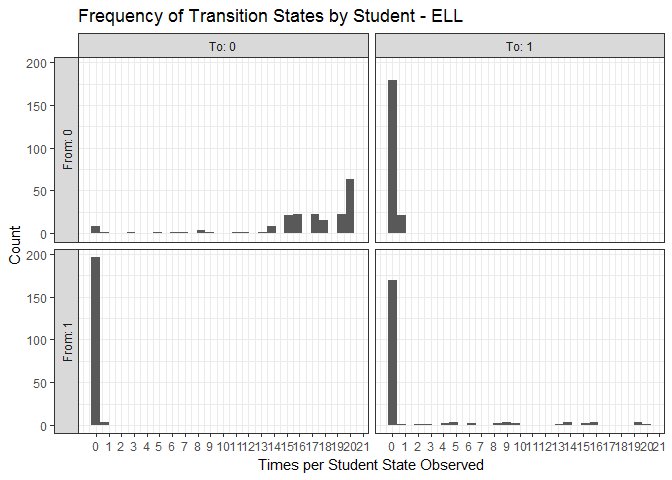
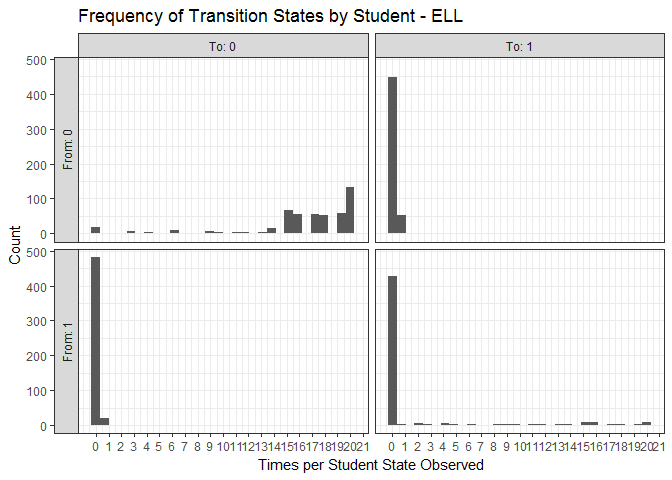
gpa function

diff --git a/README.md b/README.md
@@ -43,37 +43,42 @@ library(OpenSDP.data)
 ```
 
 ``` r
-out <- simpop(nstu = 200, nschl = 2, seed = 213)
-#> Preparing student identities for 200 students...
-#> Creating annual enrollment for 200 students...
-#> Assigning 200 students to initial FRPL, IEP, and ELL status
+out <- simpop(nstu = 500, seed = 213, control = sim_control(nschls = 3))
+#> Preparing student identities for 500 students...
+#> Creating annual enrollment for 500 students...
+#> Assigning 500 students to initial FRPL, IEP, and ELL status
 #> Organizing status variables for you...
-#> Assigning 200 students longitudinal status trajectories...
+#> Assigning 500 students longitudinal status trajectories...
 #> Sorting your records
 #> Cleaning up...
 #> Assiging grades...
-#> Creating 2 schools for you...
+#> Creating 3 schools for you...
+#> Assigning 9445 student-school enrollment spells...
 #> Success! Returning you student and student-year data in a list.
 head(out$demog_master %>% arrange(sid) %>% select(1:4))
 #>   sid    Sex  Birthdate                         Race
-#> 1 001 Female 1995-01-25 Hispanic or Latino Ethnicity
-#> 2 002 Female 1992-08-24                        White
-#> 3 003 Female 1992-05-17    Black or African American
-#> 4 004 Female 1997-04-01                        White
-#> 5 005 Female 1992-06-16                        White
-#> 6 006 Female 1995-08-29                        White
+#> 1 001   Male 1997-03-03 Hispanic or Latino Ethnicity
+#> 2 002   Male 1992-12-13                        White
+#> 3 003 Female 1998-10-05                        White
+#> 4 004 Female 1993-12-16                        White
+#> 5 005 Female 1995-03-27                        White
+#> 6 006 Female 1995-01-24                        White
 head(out$stu_year, 10)
-#>    sid year age frpl ell iep gifted grade
-#> 1  001 1999   5    0   0   0      0    KG
-#> 2  001 2000   6    0   0   0      0     1
-#> 3  001 2001   7    0   0   0      0     2
-#> 4  001 2002   8    0   0   0      0     3
-#> 5  001 2003   9    0   0   0      0     3
-#> 6  001 2004  10    0   0   0      0     4
-#> 7  001 2005  11    0   0   1      0     6
-#> 8  001 2006  12    0   0   1      0     6
-#> 9  001 2007  13    0   0   1      0     8
-#> 10 001 2008  14    0   0   0      0     9
+#> Source: local data frame [10 x 9]
+#> Groups: sid [10]
+#> 
+#>       sid  year   age  frpl   ell   iep gifted  grade schid
+#>    <fctr> <int> <dbl> <chr> <chr> <chr>  <chr> <fctr> <chr>
+#> 1     002  1997     5     1     0     0      0     KG     2
+#> 2     010  1997     5     1     0     0      0     KG     3
+#> 3     011  1997     5     1     0     0      0     KG     2
+#> 4     012  1997     4     0     0     0      0     PK     1
+#> 5     013  1997     5     0     0     0      1     KG     2
+#> 6     014  1997     5     0     0     0      1     KG     2
+#> 7     018  1997     6     0     0     0      0      1     2
+#> 8     021  1997     5     1     0     0      0     KG     2
+#> 9     022  1997     6     1     0     0      0      1     2
+#> 10    024  1997     6     1     0     0      0      1     1
 ```
 
 Parameters
@@ -83,9 +88,11 @@ Default parameters can be modified by the user:
 
 ``` r
 names(sim_control())
-#>  [1] "race_groups"    "race_prob"      "minyear"        "maxyear"       
-#>  [5] "gifted_list"    "iep_list"       "ses_list"       "ell_list"      
-#>  [9] "n_cohorts"      "school_means"   "school_cov_mat" "school_names"
+#>  [1] "nschls"             "race_groups"        "race_prob"         
+#>  [4] "minyear"            "maxyear"            "gifted_list"       
+#>  [7] "iep_list"           "ses_list"           "ell_list"          
+#> [10] "n_cohorts"          "school_means"       "school_cov_mat"    
+#> [13] "school_names"       "gpa_sim_parameters"
 sim_control()$ell_list
 #> $ALL
 #> $ALL$f
@@ -136,7 +143,7 @@ get_baseline("ses")
 #> $fun
 #> function (x) 
 #> rbinom(1, 1, x)
-#> <environment: 0x000000001d3aca88>
+#> <environment: 0x000000001245c748>
 ```
 
 ### Diagnostics
@@ -225,7 +232,7 @@ test_res <- stu_year %>% group_by(sid) %>%
 table(test_res$fit_ok)
 #> 
 #> FALSE  TRUE 
-#>    21   179
+#>    57   443
 ```
 
 Let's look at co-occurrence of status over time.
@@ -235,18 +242,18 @@ Let's look at co-occurrence of status over time.
 table(FRL = stu_year$frpl, GIFTED = stu_year$gifted)
 #>    GIFTED
 #> FRL    0    1
-#>   0 1903  188
-#>   1 1537  166
+#>   0 4573  562
+#>   1 3862  448
 table(FRL = stu_year$frpl, IEP = stu_year$iep)
 #>    IEP
 #> FRL    0    1
-#>   0 1078 1013
-#>   1  926  777
+#>   0 3499 1636
+#>   1 3099 1211
 table(GIFTED = stu_year$gifted, IEP = stu_year$iep)
 #>       IEP
 #> GIFTED    0    1
-#>      0 1782 1658
-#>      1  222  132
+#>      0 5908 2527
+#>      1  690  320
 ```
 
 Let's check polychoric correlations:
@@ -254,40 +261,40 @@ Let's check polychoric correlations:
 ``` r
 gamma_GK(stu_year$gifted, stu_year$iep)
 #> $gamma
-#> [1] -0.2202089
+#> [1] 0.04042992
 #> 
 #> $se
-#> [1] 0.07735497
+#> [1] 0.05093801
 #> 
 #> $z
-#> [1] -2.846732
+#> [1] 0.7937083
 #> 
 #> $sig
-#> [1] 0.004417057
+#> [1] 0.4273653
 gamma_GK(stu_year$frpl, stu_year$iep)
 #> $gamma
-#> [1] -0.05656089
+#> [1] -0.08946517
 #> 
 #> $se
-#> [1] 0.04615034
+#> [1] 0.03172818
 #> 
 #> $z
-#> [1] -1.225579
+#> [1] -2.819738
 #> 
 #> $sig
-#> [1] 0.2203572
+#> [1] 0.004806281
 gamma_GK(stu_year$frpl, stu_year$ell)
 #> $gamma
-#> [1] -0.1620324
+#> [1] 0.05761303
 #> 
 #> $se
-#> [1] 0.07966763
+#> [1] 0.0500866
 #> 
 #> $z
-#> [1] -2.033855
+#> [1] 1.150268
 #> 
 #> $sig
-#> [1] 0.04196626
+#> [1] 0.2500334
 ```
 
 Finally, let's see who winds up "ever" in each category
@@ -303,19 +310,19 @@ test_df <- stu_year %>% group_by(sid) %>%
 table(IEP_EVER = test_df$iep_ever)
 #> IEP_EVER
 #>  No Yes 
-#>   8 192
+#> 200 300
 table(ELL_EVER = test_df$ell_ever)
 #> ELL_EVER
 #>  No Yes 
-#> 169  31
+#> 421  79
 table(FRPL_EVER = test_df$frpl_ever)
 #> FRPL_EVER
 #>  No Yes 
-#>  23 177
+#>  48 452
 table(GIFTED_EVER = test_df$gifted_ever)
 #> GIFTED_EVER
 #>  No Yes 
-#> 182  18
+#> 431  69
 ```
 
 Assigning Schools and Outcomes
